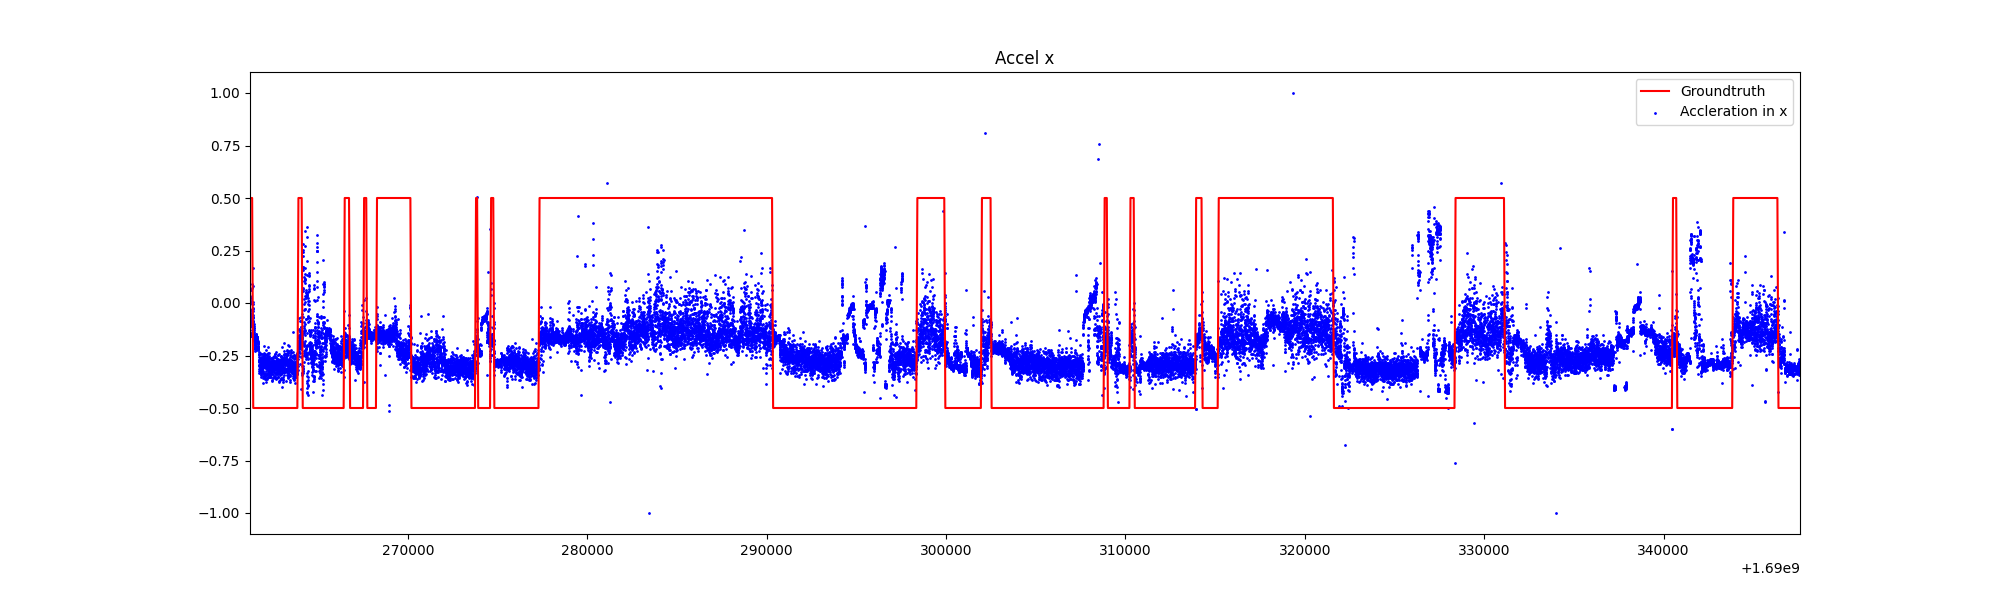
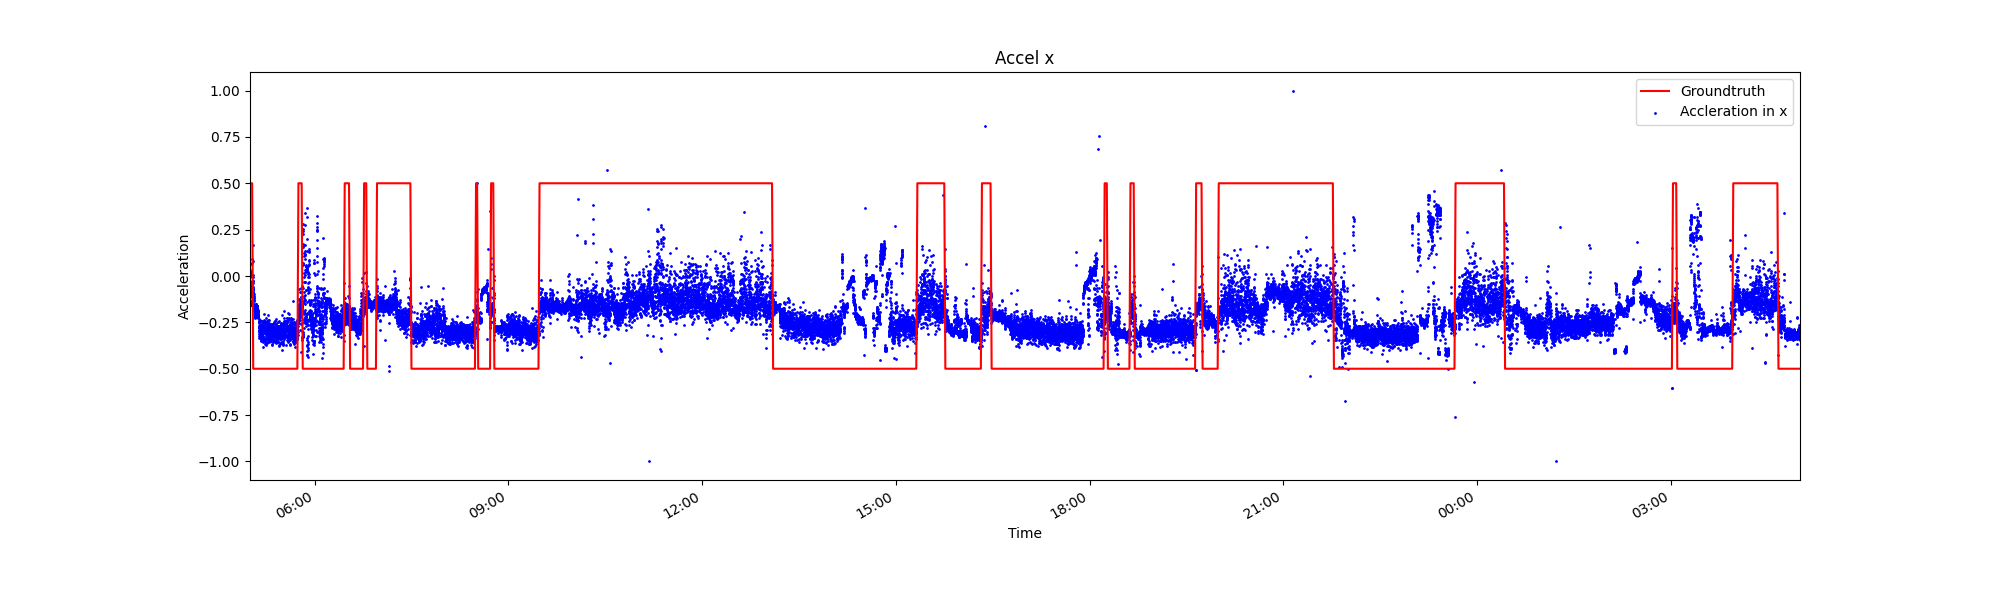
Rewrite pipeline using numpy

diff --git a/hyperparameter_tuning.py b/hyperparameter_tuning.py
@@ -4,7 +4,7 @@ os.environ['TF_CPP_MIN_LOG_LEVEL'] = '3' #Disable tensorflow debug info
 
 from numpy import mean
 from numpy import std
-from numpy import asarray
+import numpy as np
 from sklearn.model_selection import train_test_split
 from matplotlib import pyplot as plt
 from pandas import merge
@@ -91,9 +91,10 @@ def tune_hyperparameters(repeats=2):
 
     for window_size in window_sizes:
         for stride in strides:
-
+            print(f"WINDOW SIZE: {window_size}")
+            print(f"STRIDE: {stride} \n")
             # The tag numbers we want to train on
-            train_tags = [1,2,3,4,5,6,7,8,9,10]
+            train_tags = [1,2,3,5,6,8,9,10]
             # The tag numbers we want to test on
             # test_tags = [1,2,3,4,5,6,7,8,9,10]
             test_tags = [7]
@@ -101,14 +102,14 @@ def tune_hyperparameters(repeats=2):
             validation_tags = [4]
 
             # Array of all the training data we load in from each tag
-            train_inputs = []
-            train_groundtruths = []
+            train_inputs = np.array([])
+            train_groundtruths = np.array([])
             # Array of all the testing data we load in from each tag
-            test_inputs = []
-            test_groundtruths = []
+            test_inputs = np.array([])
+            test_groundtruths = np.array([])
             # Array of all the testing data we load in from each tag
-            validation_inputs = []
-            validation_groundtruths = []
+            validation_inputs = np.array([])
+            validation_groundtruths = np.array([])
 
             # Load in all the training
             for tag in train_tags:
@@ -119,7 +120,7 @@ def tune_hyperparameters(repeats=2):
 
                 # Get all accelerometer sensor data files for this folder
                 accel_filepaths = os.listdir(accel_data_dir)
-                accel_filepaths = [accel_data_dir + file for file in accel_filepaths if file.startswith('sensor_data') and file.endswith('.csv')]
+                accel_filepaths = [accel_data_dir + file for file in accel_filepaths if file.startswith('sensor_data') and file.endswith('0725.csv')]
                 accel_filepaths.sort() # Make sure they're in order for processing
                 
                 # Get groundtruth path
@@ -131,11 +132,20 @@ def tune_hyperparameters(repeats=2):
                 print(f"Loaded in tag {tag}")
                 # Create sliding window
                 X, y = create_rolling_window_data(accel_input_df, groundtruth_df, window_size=window_size, stride=stride)
-                print(f"Created Sliding window for tag {tag} \n")
+                print(f"Created Sliding window for tag {tag}")
 
                 # Add to array
-                train_inputs.append(X)
-                train_groundtruths.append(y)
+                # train_inputs.append(X)
+                # train_groundtruths.append(y)
+                if train_inputs.shape[0] == 0:
+                    train_inputs = np.asarray([np.copy(X)])
+                else:
+                    train_inputs = np.vstack([train_inputs, [X]])
+
+                if train_groundtruths.shape[0] == 0:
+                    train_groundtruths = np.asarray([np.copy(y)])
+                else:
+                    train_groundtruths = np.vstack([train_groundtruths, y])
 
                 # Manage memory
                 del [accel_input_df, groundtruth_df]
@@ -144,6 +154,7 @@ def tune_hyperparameters(repeats=2):
 
             # Load in all the testing (just one day)
             for tag in test_tags:
+                break
                 # Build folder path
                 accel_data_dir = accel_data_prefix + 'T' + str(tag).zfill(2) + '/'
                 groundtruth_dir = 'converted_data/' + 'T' + str(tag).zfill(2) + '/'
@@ -162,11 +173,20 @@ def tune_hyperparameters(repeats=2):
                 print(f"Loaded in tag {tag}")
                 # Create sliding window
                 X, y = create_rolling_window_data(accel_input_df, groundtruth_df, window_size=window_size, stride=stride)
-                print(f"Created Sliding window for tag {tag} \n")
+                print(f"Created Sliding window for tag {tag}")
 
                 # Add to array
-                test_inputs.append(X)
-                test_groundtruths.append(y)
+                # test_inputs.append(X)
+                # test_groundtruths.append(y)
+                if test_inputs.shape[0] == 0:
+                    test_inputs = np.asarray([np.copy(X)])
+                else:
+                    test_inputs = np.vstack([test_inputs, [X]])
+
+                if test_groundtruths.shape[0] == 0:
+                    test_groundtruths = np.asarray([np.copy(y)])
+                else:
+                    test_groundtruths = np.vstack([test_groundtruths, y])
 
                 # Manage memory
                 del [accel_input_df, groundtruth_df]
@@ -193,11 +213,20 @@ def tune_hyperparameters(repeats=2):
                 print(f"Loaded in tag {tag}")
                 # Create sliding window
                 X, y = create_rolling_window_data(accel_input_df, groundtruth_df, window_size=window_size, stride=stride)
-                print(f"Created Sliding window for tag {tag} \n")
+                print(f"Created Sliding window for tag {tag}")
 
                 # Add to array
-                validation_inputs.append(X)
-                validation_groundtruths.append(y)
+                # validation_inputs.append(X)
+                # validation_groundtruths.append(y)
+                if validation_inputs.shape[0] == 0:
+                    validation_inputs = np.asarray([np.copy(X)])
+                else:
+                    validation_inputs = np.vstack([validation_inputs, [X]])
+
+                if validation_groundtruths.shape[0] == 0:
+                    validation_groundtruths = np.asarray([np.copy(y)])
+                else:
+                    validation_groundtruths = np.vstack([validation_groundtruths, y])
 
                 # Manage memory
                 del [accel_input_df, groundtruth_df]
@@ -207,32 +236,38 @@ def tune_hyperparameters(repeats=2):
             # Loop through every test tag to train on all other data and test on this one
             for val_tag_i in range(len(validation_tags)):
                 print(f"Validating on tag {validation_tags[val_tag_i]}")
-                print(f"WINDOW SIZE: {window_size}")
-                print(f"STRIDE: {stride}")
 
                 # Prepare training data
                 # Combine all training data
-                X_train = []
-                y_train = []
+                X_train = np.array([])
+                y_train = np.array([])
 
                 for i in range(len(train_tags)):
                     # Skip if this is the tag we're testing on
-                    if i == val_tag_i:
+                    if train_tags[i] == validation_tags[val_tag_i]:
                         continue
 
-                    X_train += train_inputs[i]
-                    y_train += train_groundtruths[i]
+                    # X_train += train_inputs[i]
+                    # y_train += train_groundtruths[i]
+                    if X_train.shape[0] == 0:
+                        X_train = np.copy(train_inputs[i])
+                    else:
+                        X_train = np.vstack([X_train, [train_inputs[i]]])
+                    
+                    if y_train.shape[0] == 0:
+                        y_train = np.copy(train_groundtruths[i])
+                    else:
+                        y_train = np.concatenate(y_train, train_groundtruths[i])
                 
+
                 # One-hot encoding
                 y_train = to_categorical(y_train)
-                X_train = asarray(X_train)
 
                 # Prepare validation data
                 X_val = validation_inputs[val_tag_i]
                 y_val = validation_groundtruths[val_tag_i]
 
                 y_val = to_categorical(y_val)
-                X_val = asarray(X_val)
 
                 # Train/Test split for data
                 print("Training data shape: (X) (y)")
@@ -254,5 +289,7 @@ def tune_hyperparameters(repeats=2):
                     scores.append(score)
                 # summarize results
                 m = summarize_results(scores)
+                print(m)
+                print("\n")
 
 tune_hyperparameters()

diff --git a/utils/load_data_utils.py b/utils/load_data_utils.py
@@ -1,5 +1,6 @@
 from pandas import read_csv, concat, merge, DataFrame, to_datetime
 import numpy as np
+from math import ceil
 
 def load_to_df(input_filenames, output_filename, prefix = ''):
     # Load in the sensor data
@@ -11,7 +12,7 @@ def load_to_df(input_filenames, output_filename, prefix = ''):
 
     '''
     STANDARDIZE INPUT DATA
-    * Sometimes some timestamps are missing so we want to fill in missing 
+    Sometimes some timestamps are missing so we want to fill in missing 
     timestamps to make sure maintain a standard number of samples per minute
     '''
     
@@ -55,25 +56,24 @@ def create_rolling_window_data(input_df, groundtruth_df, window_size = 5, stride
    # Get base time difference size
    # Use 3 and 2 in case there is a problem with the first index
     groundtruth_base_time = groundtruth_df['Unixtime'][4] - groundtruth_df['Unixtime'][3]
+    print("Base time is: " + str(groundtruth_base_time))
     input_base_time = input_df['timestamp'][4] - input_df['timestamp'][3]
 
     # Make the base time 5 minutes to make processing much faster
-    groundtruth_base_time = groundtruth_base_time * stride
-
-    print("Base time is: " + str(groundtruth_base_time))
+    stride_time = groundtruth_base_time * stride
     window = groundtruth_base_time * window_size
     # Get grountruths in time window
-    X,y = list(), list()
+    X,y = np.array([]), np.array([])
 
-    for start_time in np.arange(groundtruth_df.iloc[0]['Unixtime'],groundtruth_df.iloc[-1]['Unixtime'], groundtruth_base_time):
+    for start_time in np.arange(groundtruth_df.iloc[0]['Unixtime'],groundtruth_df.iloc[-1]['Unixtime'], stride_time):
         end_time = start_time + window
         # Groundtruth is given in one minute time windows, so split input data every minute
         groundtruth_data_for_time_window = groundtruth_df.loc[(groundtruth_df['Unixtime'] >= start_time) & (
             groundtruth_df['Unixtime'] < end_time)]
-        labels = groundtruth_data_for_time_window['Labels'].tolist()
-
+        
         # Check to make sure this isn't a transition period
-        if len(set(labels)) != 1:
+        a = groundtruth_data_for_time_window["Labels"].to_numpy() # df.values
+        if not (a[0] == a).all():
             continue
 
         # Get associated sensor data
@@ -87,16 +87,24 @@ def create_rolling_window_data(input_df, groundtruth_df, window_size = 5, stride
             continue
 
         # Make sure we have consistent shape (Standardize to 600 readings per window)
-        sensor_data_list = input_data_for_time_window.values.tolist()
-        expected_readings = int(window/input_base_time)
+        sensor_data_list = input_data_for_time_window.to_numpy()
+        expected_readings = int(ceil(window/input_base_time))
 
         if len(sensor_data_list) != expected_readings:
             continue
-
+        
         # Add X data
-        X.append(sensor_data_list)
+        # X.append(sensor_data_list)
+        if X.shape[0] == 0:
+            X =  np.asarray([np.copy(sensor_data_list)])
+        else:
+            X = np.vstack([X,[sensor_data_list]])
         # Add y data
-        y.append(labels[0])
+        # y.append(a[0])
+        if y.shape[0] == 0:
+            y = np.array([a[0]])
+        else:
+            y = np.concatenate((y,[a[0]]))
         
 
     return X,y

diff --git a/data_visualization.py b/data_visualization.py
@@ -1,7 +1,10 @@
 import os
 from matplotlib import pyplot as plt
+import matplotlib.dates as mdates
 import pandas as pd
 from numpy import sqrt
+import numpy as np
+import datetime
 
 from utils.load_data_utils import load_to_df
 
@@ -25,6 +28,9 @@ groundtruth_path = data_dir + 'T' + str(tag).zfill(2) + '_groundtruths.csv'
 # Load in the data
 sensor_df, groundtruth_df = load_to_df(filepaths, groundtruth_path)
 
+# groundtruth_df = groundtruth_df.loc[(groundtruth_df['Unixtime'] >= sensor_df.iloc[0]['timestamp']) & (
+#             groundtruth_df['Unixtime'] < sensor_df.iloc[-1]['timestamp'])]
+
 # Calculate total acceleration magnitude
 # sensor_df["accel_svm_mps2"] = sqrt(sensor_df["accel_x_mps2"]**2 + sensor_df["accel_y_mps2"]**2 + (sensor_df["accel_z_mps2"])**2)
 
@@ -36,17 +42,25 @@ sensor_df["accel_y_mps2"] = 2*((sensor_df["accel_y_mps2"] - sensor_df["accel_y_m
 sensor_df["accel_z_mps2"] = 2*((sensor_df["accel_z_mps2"] - sensor_df["accel_z_mps2"].min()) / (sensor_df["accel_z_mps2"].max() - sensor_df["accel_z_mps2"].min())) - 1
 # sensor_df["accel_svm_mps2"] = 2*((sensor_df["accel_svm_mps2"] - sensor_df["accel_svm_mps2"].min()) / (sensor_df["accel_svm_mps2"].max() - sensor_df["accel_svm_mps2"].min())) - 1
 
+# Convert to datetimes
+
+groundtruth_df['date'] = pd.to_datetime(groundtruth_df['Unixtime'], unit='s')
+sensor_df['date'] = pd.to_datetime(sensor_df['timestamp'], unit='s')
 
 for direction in ["x", "y", "z"]:
     plt.figure(figsize=(20,6))
-    plt.plot(groundtruth_df["Unixtime"], groundtruth_df["Labels"]-.5, label = "Groundtruth", color='red', linestyle='solid')
-    plt.scatter(sensor_df["timestamp"], sensor_df[f"accel_{direction}_mps2"], label = f"Accleration in {direction}", color='blue', s=1)
+    ax = plt.plot(groundtruth_df["date"], groundtruth_df["Labels"]-.5, label = "Groundtruth", color='red', linestyle='solid')
+    plt.scatter(sensor_df["date"], sensor_df[f"accel_{direction}_mps2"], label = f"Accleration in {direction}", color='blue', s=1)
+    
+    plt.gca().xaxis.set_major_formatter(mdates.DateFormatter('%H:%M'))
+    plt.gcf().autofmt_xdate() 
 
     plt.legend()
     plt.title(f"Accel {direction}")
+    plt.xlabel("Time")
+    plt.ylabel("Acceleration")
     # Graph the sensor data
 
-    plt.xlim([sensor_df.iloc[0]['timestamp'], sensor_df.iloc[-1]['timestamp']])
-
+    plt.xlim([sensor_df.iloc[0]['date'], sensor_df.iloc[-1]['date']])
 
     plt.savefig(f'Accel_{direction}.png')

diff --git a/pooling_exp.py b/pooling_exp.py
@@ -8,6 +8,8 @@ from numpy import asarray
 from sklearn.model_selection import train_test_split
 from matplotlib import pyplot as plt
 from pandas import merge
+import pandas as pd
+import datetime
 
 from utils.load_data_utils import load_to_df, create_rolling_window_data
 from utils.features_utils import add_svm_feature
@@ -63,11 +65,18 @@ def graph_model(trainX, trainy, testX, testy):
     plt.plot(predictions, label = "Prediction", color='red', linestyle='dashed')
 
     plt.legend()
-    plt.xlabel("Time Frame")
+    plt.xlabel("Time")
     plt.ylabel("Standing")
+    plt.yticks([0,1], ["Sitting", "Standing"])
 
-    plt.title('CNN Prediction vs Groundtruth on T07 UWB Data on 07/25')
-    
+    base = pd.to_datetime(1690261200.0, unit='s')
+    timestamp_list = [base + datetime.timedelta(minutes=x*5) for x in range(0,200,20)]
+    times = [f'{x.hour}:{str(x.minute).zfill(2)}' for x in timestamp_list]
+
+    plt.xticks(range(0,200,20), times)
+
+    plt.title('T07 07/25 Accelerometer')
+
     plt.savefig('Accuracies.png')
     # return accuracy
 
